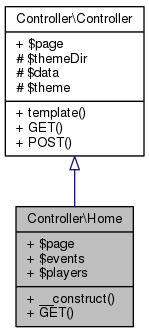
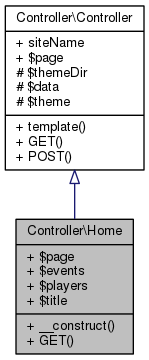
UML diagrammen en uitleg openid toegevoegd aan rapport

Changed region(s): [[0.0268, 0.0, 0.9664, 0.5105], [0.0805, 0.6006, 0.9128, 0.991]]

diff --git a/rapporten/Rapport April.tex b/rapporten/Rapport April.tex
@@ -95,7 +95,54 @@
 
 \subsection{UML diagram}
 
-Bruno
+\includegraphics[scale=0.4]{UML_Bet.png}
+\includegraphics[scale=0.4]{UML_Card.png}
+\includegraphics[scale=0.4]{UML_Coach.png}
+\includegraphics[scale=0.4]{UML_Coaches.png}
+\includegraphics[scale=0.4]{UML_Competition.png}
+\includegraphics[scale=0.4]{UML_Controller_1_1Bets.png}
+\includegraphics[scale=0.4]{UML_Controller_1_1Coach.png}
+\includegraphics[scale=0.4]{UML_Controller_1_1Competition.png}
+\includegraphics[scale=0.4]{UML_Controller_1_1Controller.png}
+\includegraphics[scale=0.4]{UML_Controller_1_1Country.png}
+\includegraphics[scale=0.4]{UML_Controller_1_1CreateGroup.png}
+\includegraphics[scale=0.4]{UML_Controller_1_1Error.png}
+\includegraphics[scale=0.4]{UML_Controller_1_1Events.png}
+\includegraphics[scale=0.4]{UML_Controller_1_1Group.png}
+\includegraphics[scale=0.4]{UML_Controller_1_1Home.png}
+\includegraphics[scale=0.4]{UML_Controller_1_1InviteUser.png}
+\includegraphics[scale=0.4]{UML_Controller_1_1Invites.png}
+\includegraphics[scale=0.4]{UML_Controller_1_1Login.png}
+\includegraphics[scale=0.4]{UML_Controller_1_1LoginAlternative.png}
+\includegraphics[scale=0.4]{UML_Controller_1_1Match.png}
+\includegraphics[scale=0.4]{UML_Controller_1_1Navigator.png}
+\includegraphics[scale=0.4]{UML_Controller_1_1News.png}
+\includegraphics[scale=0.4]{UML_Controller_1_1Player.png}
+\includegraphics[scale=0.4]{UML_Controller_1_1Referee.png}
+\includegraphics[scale=0.4]{UML_Controller_1_1Register.png}
+\includegraphics[scale=0.4]{UML_Controller_1_1Team.png}
+\includegraphics[scale=0.4]{UML_Controller_1_1TopPlayers.png}
+\includegraphics[scale=0.4]{UML_Controller_1_1Tournament.png}
+\includegraphics[scale=0.4]{UML_Controller_1_1UserConfigPanel.png}
+\includegraphics[scale=0.4]{UML_Controller_1_1placeBet.png}
+\includegraphics[scale=0.4]{UML_Country.png}
+\includegraphics[scale=0.4]{UML_Database1.png}
+\includegraphics[scale=0.4]{UML_Database2.png}
+\includegraphics[scale=0.4]{UML_Database3.png}
+\includegraphics[scale=0.4]{UML_Fault.png}
+\includegraphics[scale=0.4]{UML_Goal.png}
+\includegraphics[scale=0.4]{UML_Group.png}
+\includegraphics[scale=0.4]{UML_GroupMembership.png}
+\includegraphics[scale=0.4]{UML_Match.png}
+\includegraphics[scale=0.4]{UML_Parser.png}
+\includegraphics[scale=0.4]{UML_Player.png}
+\includegraphics[scale=0.4]{UML_PlaysIn.png}
+\includegraphics[scale=0.4]{UML_PlaysMatchInTeam.png}
+\includegraphics[scale=0.4]{UML_Referee.png}
+\includegraphics[scale=0.4]{UML_Score.png}
+\includegraphics[scale=0.4]{UML_Team.png}
+\includegraphics[scale=0.4]{UML_Tournament.png}
+\includegraphics[scale=0.4]{UML_User.png}
 
 \subsection{API}
 
@@ -154,9 +201,7 @@ Mathias
 
 \subsection{OpenID}
 
-Bruno
-
-
+Naast de normale login is er ook een optie om in te loggen door gebruik te maken van een externe account. Wanneer je naar de alternatieve login pagina gaat, krijg je een keuze uit verschillende services (zoals Facebook en Google) waarmee je kunt inloggen. Buiten Facebook werken deze allen met openid en er is uiteindelijk voor de LightOpenID library gekozen omdat deze makkelijk te gebruiken was. Facebook is achteraf nog appart toegevoegd aangezien die helemaal geen OpenID provider is. Om in te kunnen loggen via Facebook moest eerst een app worden aangemaakt op hun site om alles mogelijk te maken. Buiten het feit dat er extra code nodig is die het verschil tussen een openid en een facebook login checked, is het grote nadeel dat de facebook login enkel op de server kan werken en niet ondertussen op de localhost getest kan worden. Maar dit heeft geen gevolgen voor de gebruikers van de site.
 
 
 
